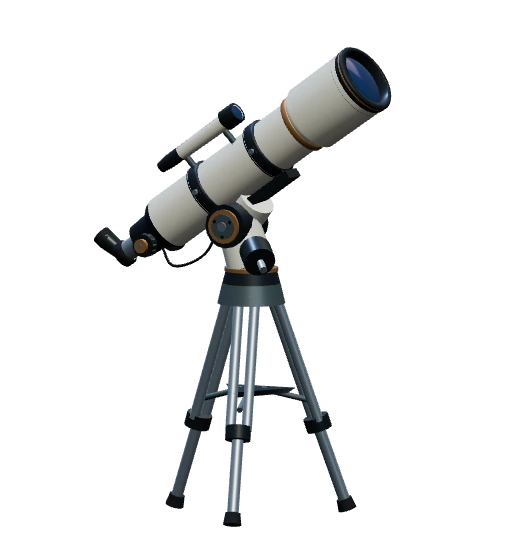
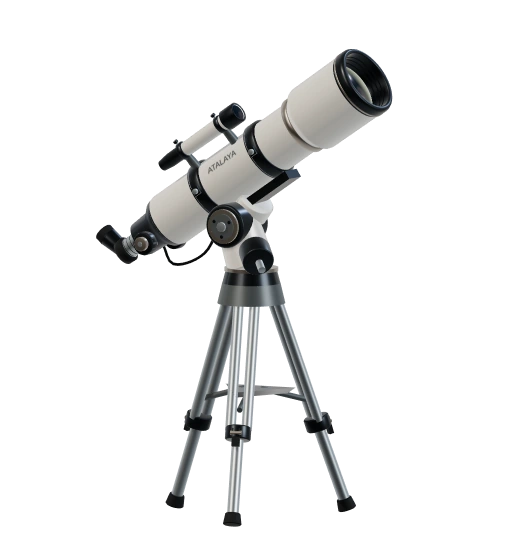
Afina el telescopio y oriéntalo hacia el puntero

Changed region(s): [[0.1765, 0.0889, 0.7647, 0.9778]]

diff --git a/js/telescope.js b/js/telescope.js
@@ -10,13 +10,15 @@ function finish(color, metalness, roughness) {
 function part(parent, geometry, material, x = 0, y = 0, z = 0) {
   const mesh = new THREE.Mesh(geometry, material);
   mesh.position.set(x, y, z);
+  mesh.castShadow = true;
+  mesh.receiveShadow = true;
   parent.add(mesh);
   return mesh;
 }
 
 // A turned profile along the optical axis. Each pair is [axial distance, radius].
 function turned(parent, material, profile, y = 0, z = 0) {
-  const geometry = new THREE.LatheGeometry(profile.map(([x, radius]) => new THREE.Vector2(radius, x)), 48);
+  const geometry = new THREE.LatheGeometry(profile.map(([x, radius]) => new THREE.Vector2(radius, x)), 96);
   geometry.rotateZ(-Math.PI / 2);
   return part(parent, geometry, material, 0, y, z);
 }
@@ -25,19 +27,52 @@ function strut(parent, material, from, to, radius, endRadius = radius) {
   const a = new THREE.Vector3(...from);
   const b = new THREE.Vector3(...to);
   const axis = b.clone().sub(a);
-  const mesh = part(parent, new THREE.CylinderGeometry(endRadius, radius, axis.length(), 16), material);
+  const half = axis.length() / 2;
+  const bevel = Math.min(radius * .10, endRadius * .10, half * .22);
+  const profile = [
+    [0, -half], [radius-bevel, -half], [radius, bevel-half],
+    [endRadius, half-bevel], [endRadius-bevel, half], [0, half]
+  ];
+  const mesh = part(parent, new THREE.LatheGeometry(profile.map(([r,h]) => new THREE.Vector2(r,h)), 36), material);
   mesh.position.lerpVectors(a, b, .5);
   mesh.quaternion.setFromUnitVectors(up, axis.normalize());
   return mesh;
 }
 
+// Silk-screened lettering follows the curved enamel between the tube rings.
+function addTubeMark(tube) {
+  const canvas = document.createElement("canvas");
+  canvas.width = 512;
+  canvas.height = 128;
+  const ctx = canvas.getContext("2d");
+  ctx.fillStyle = "#34444b";
+  ctx.font = "500 78px sans-serif";
+  ctx.textAlign = "center";
+  ctx.fillText("ATALAYA", 256, 91);
+  const map = new THREE.CanvasTexture(canvas);
+  map.colorSpace = THREE.SRGBColorSpace;
+  const material = new THREE.MeshStandardMaterial({
+    map, transparent: true, depthWrite: false, roughness: .46,
+    polygonOffset: true, polygonOffsetFactor: -1
+  });
+  const label = new THREE.LatheGeometry(
+    [new THREE.Vector2(.1394,-.151), new THREE.Vector2(.1394,.151)], 32, -.72, .54
+  );
+  const uv = label.attributes.uv;
+  for (let i = 0; i < uv.count; i++) uv.setXY(i, uv.getY(i), 1 - uv.getX(i));
+  label.rotateZ(-Math.PI / 2);
+  part(tube, label, material).castShadow = false;
+}
+
 function buildInstrument(scene) {
-  const enamel = finish(0xe0dfd1, .32, .26);
-  const graphite = finish(0x30393d, .58, .33);
+  const enamel = new THREE.MeshPhysicalMaterial({
+    color: 0xe3e4df, roughness: .34, metalness: .12, clearcoat: .64, clearcoatRoughness: .25
+  });
+  const graphite = finish(0x343b40, .72, .30);
   const rubber = finish(0x191e22, .08, .72);
-  const steel = finish(0xb7c6cf, .86, .25);
-  const brass = finish(0xc99560, .72, .28);
-  const mount = finish(0x657477, .62, .34);
+  const steel = finish(0xb5c0c6, .88, .34);
+  const titanium = finish(0xa8a39b, .9, .30);
+  const mount = finish(0x61696c, .44, .43);
 
   // Three legs converge under the head. The braces attach inside each leg.
   for (const angle of [14, 134, 254]) {
@@ -48,6 +83,9 @@ function buildInstrument(scene) {
       strut(leg, steel, [x, 1.13, .105], [x, .47, .34], .026);
     }
     strut(leg, graphite, [0, .49, .337], [0, .425, .359], .064);
+    const latch = part(leg, new THREE.BoxGeometry(.038,.09,.022), rubber, 0,.445,.405);
+    latch.rotation.x = -.29;
+    strut(leg, titanium, [-.029,.467,.402],[.029,.467,.402],.012);
     strut(leg, steel, [0, .445, .35], [0, .055, .494], .029);
     strut(leg, rubber, [0, .075, .486], [0, .02, .505], .038, .046);
     strut(leg, mount, [0, .64, .05], [0, .57, .312], .014);
@@ -55,14 +93,14 @@ function buildInstrument(scene) {
   part(scene, new THREE.CylinderGeometry(.22, .18, .028, 3), graphite, 0, .63);
   part(scene, new THREE.CylinderGeometry(.145, .169, .10, 36), mount, 0, 1.12);
   part(scene, new THREE.CylinderGeometry(.125, .145, .075, 36), graphite, 0, 1.205);
-  part(scene, new THREE.CylinderGeometry(.134, .134, .018, 36), brass, 0, 1.24);
+  part(scene, new THREE.CylinderGeometry(.134, .134, .018, 36), titanium, 0, 1.24);
 
   const azimuth = new THREE.Group();
   azimuth.position.y = 1.25;
   scene.add(azimuth);
   strut(azimuth, enamel, [0, 0, 0], [-.083, .233, 0], .12, .107);
   strut(azimuth, graphite, [-.08, .21, -.12], [-.08, .21, .128], .11);
-  strut(azimuth, brass, [-.08, .21, .129], [-.08, .21, .144], .086);
+  strut(azimuth, titanium, [-.08, .21, .129], [-.08, .21, .144], .086);
   strut(azimuth, mount, [-.08, .21, .144], [-.08, .21, .151], .064);
   strut(azimuth, steel, [-.08, .21, .151], [-.08, .21, .162], .024);
   for (const angle of [30, 150, 270]) {
@@ -83,7 +121,8 @@ function buildInstrument(scene) {
   altitude.add(tube);
 
   // Ivory optical tube, dovetail, padded rings and the machined dew shield.
-  turned(tube, enamel, [[-.53, .106], [-.50, .139], [.46, .139], [.48, .15]]);
+  turned(tube, enamel, [[-.53,.106],[-.524,.115],[-.51,.132],[-.49,.139],[.46,.139],[.48,.15]]);
+  addTubeMark(tube);
   for (const x of [-.19, .2]) {
     turned(tube, graphite, [[x-.035,.138],[x-.03,.153],[x+.027,.153],[x+.035,.139]]);
     part(tube, new THREE.BoxGeometry(.061,.052,.089), mount, x,-.149);
@@ -91,20 +130,28 @@ function buildInstrument(scene) {
     strut(tube, steel, [x,.005,.157], [x,.005,.178], .014);
     turned(tube, steel, [[x-.027,.151],[x-.023,.154],[x-.020,.151]]);
   }
-  turned(tube, brass, [[.427,.14],[.433,.153],[.46,.153],[.466,.146]]);
-  turned(tube, enamel, [[.46,.145],[.50,.173],[.84,.177],[.86,.17]]);
-  turned(tube, graphite, [[.83,.176],[.845,.181],[.873,.181],[.884,.172],[.884,.148],[.825,.146]]);
-  turned(tube, steel, [[.803,.175],[.807,.1775],[.810,.175]]);
-  turned(tube, brass, [[.855,.181],[.861,.182],[.867,.181]]);
+  turned(tube, titanium, [[.427,.14],[.433,.153],[.46,.153],[.466,.146]]);
+  turned(tube, enamel, [[.46,.145],[.472,.149],[.495,.17],[.51,.175],[.817,.178],[.836,.176]]);
+  turned(tube, graphite, [[.818,.176],[.827,.182],[.872,.182],[.885,.176],[.89,.17],[.89,.157],[.882,.152],[.792,.145],[.78,.142]]);
+  turned(tube, titanium, [[.829,.181],[.833,.183],[.84,.183],[.842,.181]]);
+  // Flocked baffles and a recessed retaining ring in front of the objective.
+  for (const x of [.806,.831,.853]) {
+    const r = .145 + (x-.79)*.09;
+    turned(tube, rubber, [[x,r+.003],[x,r-.003],[x-.005,r-.003],[x-.009,r+.001]]);
+  }
   const coating = new THREE.MeshPhysicalMaterial({
-    color: 0x225377, metalness: .54, roughness: .12,
-    clearcoat: 1, clearcoatRoughness: .08, iridescence: .58, iridescenceIOR: 1.38
+    color: 0x164352, metalness: .59, roughness: .115,
+    clearcoat: .67, clearcoatRoughness: .085, ior: 1.52,
+    iridescence: .76, iridescenceIOR: 1.34, iridescenceThicknessMinimum: 270, iridescenceThicknessMaximum: 365
   });
-  turned(tube, coating, [[.833,.147],[.847,.122],[.857,.081],[.862,.036],[.863,0]]);
+  turned(tube, coating, [[.78,.144],[.788,.128],[.795,.105],[.803,.071],[.808,.032],[.809,0]]);
 
   // Focuser, silver drawtube, right-angle eyepiece and dual-speed focus knobs.
   turned(tube, graphite, [[-.69,.066],[-.68,.088],[-.57,.096],[-.53,.128],[-.50,.137]]);
   turned(tube, steel, [[-.79,.05],[-.69,.05],[-.68,.061]]);
+  for (const x of [-.769,-.747,-.725,-.703]) {
+    turned(tube, graphite, [[x,.05],[x+.002,.0505],[x+.004,.05]]);
+  }
   turned(tube, rubber, [[-.83,.01],[-.82,.064],[-.78,.066],[-.77,.053]]);
   strut(tube, graphite, [-.811,.015,0],[-.849,.113,0],.039,.048);
   strut(tube, rubber, [-.846,.101,0],[-.859,.149,0],.048);
@@ -112,7 +159,7 @@ function buildInstrument(scene) {
   for (const side of [-1,1]) {
     strut(tube, graphite, [-.598,-.058,side*.12],[-.598,-.058,side*.17],.057);
   }
-  strut(tube, brass, [-.598,-.058,.17],[-.598,-.058,.196],.035);
+  strut(tube, titanium, [-.598,-.058,.17],[-.598,-.058,.196],.035);
   for (let i = 0; i < 12; i++) {
     const angle = i * Math.PI / 6;
     const x = -.598 + .053 * Math.cos(angle);
@@ -123,7 +170,10 @@ function buildInstrument(scene) {
 
   // A finder sits slightly toward the viewer so the two tubes read separately.
   for (const x of [-.17,.09]) {
-    strut(tube, mount, [x,.11,.065],[x,.219,.104],.016);
+    strut(tube, mount, [x,.11,.065],[x,.219,.104],.025,.018);
+    turned(tube, graphite, [[x-.015,.036],[x-.012,.046],[x+.012,.046],[x+.015,.036]],.222,.104);
+    strut(tube, steel, [x,.252,.119],[x,.275,.132],.006);
+    strut(tube, graphite, [x,.271,.129],[x,.282,.135],.012);
   }
   turned(tube, graphite, [[-.32,.027],[-.26,.035],[.15,.038],[.16,.045]],.222,.104);
   turned(tube, enamel, [[-.18,.036],[.115,.04],[.118,.039]],.222,.104);
@@ -135,47 +185,47 @@ function buildInstrument(scene) {
     new THREE.Vector3(-.39,-.25,.04), new THREE.Vector3(-.20,-.147,.025)
   ]);
   part(tube, new THREE.TubeGeometry(lead, 18, .007, 6, false), rubber);
-  return { azimuth, altitude };
+  return { azimuth, altitude, tubeHeight: tube.position.y };
 }
 
-// Reflection cards give the steel and coated lens distinct highlights at icon size.
-function makeSkyReflection() {
-  const canvas = document.createElement("canvas");
-  canvas.width = 256;
-  canvas.height = 128;
-  const ctx = canvas.getContext("2d");
-  const sky = ctx.createLinearGradient(0, 0, 0, 128);
-  for (const [at, color] of [[0,"#73879d"],[.43,"#526170"],[.55,"#212e36"],[1,"#393227"]]) {
-    sky.addColorStop(at, color);
-  }
-  ctx.fillStyle = sky;
-  ctx.fillRect(0, 0, 256, 128);
-  ctx.fillStyle = "#f7eee0";
-  ctx.fillRect(34, 25, 49, 18);
-  ctx.fillStyle = "#c3dafa";
-  ctx.fillRect(145, 17, 15, 49);
-  const texture = new THREE.CanvasTexture(canvas);
+// Studio Small 09, photographed by Sergej Majboroda (CC0, polyhaven.com/a/studio_small_09).
+// The local panorama stores linear radiance at 1/20 exposure to retain the softbox highlights.
+async function studioEnvironment() {
+  const image = new Image();
+  image.src = new URL("../images/atalaya-studio-light.webp", import.meta.url).href;
+  await image.decode();
+  const texture = new THREE.CanvasTexture(image);
   texture.mapping = THREE.EquirectangularReflectionMapping;
   texture.colorSpace = THREE.SRGBColorSpace;
   return texture;
 }
 
-export function createTelescope(host) {
+export async function createTelescope(host) {
+  const environment = await studioEnvironment();
   const renderer = new THREE.WebGLRenderer({ alpha: true, antialias: true, powerPreference: "low-power" });
   renderer.setClearColor(0, 0);
-  renderer.setPixelRatio(Math.min(window.devicePixelRatio, 2));
   renderer.toneMapping = THREE.ACESFilmicToneMapping;
+  renderer.shadowMap.enabled = true;
   const scene = new THREE.Scene();
-  scene.environment = makeSkyReflection();
-  scene.add(new THREE.HemisphereLight(0xd9eaff, 0x897366, 1.05));
-  const key = new THREE.DirectionalLight(0xfff1db, 2.5);
-  key.position.set(2, 4, 3);
-  scene.add(key);
-  const rim = new THREE.DirectionalLight(0xa7c9ff, 2.1);
-  rim.position.set(-2, 3, -1);
+  scene.environment = environment;
+  scene.environmentIntensity = 13;
+  scene.environmentRotation.y = radians(32);
+  scene.add(new THREE.HemisphereLight(0xe0ecff, 0x92918a, .24));
+  const key = new THREE.DirectionalLight(0xfff2df, 1.55);
+  key.position.set(-2.5, 5, 3);
+  key.target.position.y = 1.15;
+  key.castShadow = true;
+  key.shadow.mapSize.set(512, 512);
+  Object.assign(key.shadow.camera, { left: -1.65, right: 1.65, top: 1.65, bottom: -1.65, near: .5, far: 10 });
+  key.shadow.camera.updateProjectionMatrix();
+  key.shadow.normalBias = .005;
+  key.shadow.bias = -.0002;
+  scene.add(key, key.target);
+  const rim = new THREE.DirectionalLight(0xbddaff, .7);
+  rim.position.set(1, 2, -3);
   scene.add(rim);
 
-  const { azimuth, altitude } = buildInstrument(scene);
+  const { azimuth, altitude, tubeHeight } = buildInstrument(scene);
   const camera = new THREE.OrthographicCamera(-1, 1, 1.34, -1.34, .1, 20);
   camera.position.set(2.8, 2.03, 6);
   camera.lookAt(.02, 1.235, 0);
@@ -186,40 +236,62 @@ export function createTelescope(host) {
   let running = false;
   let frame = 0;
   let lastDraw = 0;
-  let elapsed = 0;
-  let aimX = 0;
-  let aimY = 0;
-  let touchedUntil = 0;
+  let targetYaw = azimuth.rotation.y;
+  let targetPitch = altitude.rotation.z;
+  let pointer = null;
+  const target = new THREE.Vector3();
+  const pivot = new THREE.Vector3();
+  const towardCamera = new THREE.Vector3();
   const canvas = renderer.domElement;
   host.append(canvas);
 
-  function point(event) {
-    const dx = event.clientX - (bounds.left + bounds.width / 2);
-    const dy = event.clientY - (bounds.top + bounds.height / 2);
-    const reach = Math.max(110, bounds.width * 1.65);
-    const influence = Math.max(0, 1 - Math.hypot(dx, dy) / reach);
-    aimX = THREE.MathUtils.clamp(dx / (bounds.width * .42), -1, 1) * influence;
-    aimY = THREE.MathUtils.clamp(-dy / (bounds.height * .42), -1, 1) * influence;
-    touchedUntil = event.pointerType === "touch" ? performance.now() + 1700 : 0;
+  function aim() {
+    // Place a point on the cursor's orthographic ray, in front of the mount.
+    azimuth.getWorldPosition(pivot);
+    target.copy(pivot).project(camera);
+    target.x = 2 * (pointer.x - bounds.left) / bounds.width - 1;
+    target.y = 1 - 2 * (pointer.y - bounds.top) / bounds.height;
+    target.unproject(camera).sub(pivot);
+    camera.getWorldDirection(towardCamera).negate();
+    target.addScaledVector(towardCamera, 2.2 + target.length() * .32);
+
+    // Solve both mount axes, including the height of the optical axis above its saddle.
+    const horizontal = Math.hypot(target.x, target.z);
+    const axle = altitude.position;
+    targetYaw = Math.atan2(-target.z, target.x) + Math.asin(THREE.MathUtils.clamp(axle.z / horizontal, -1, 1));
+    const forward = Math.sqrt(Math.max(0, horizontal * horizontal - axle.z * axle.z)) - axle.x;
+    const height = target.y - axle.y;
+    targetPitch = Math.atan2(height, forward) - Math.asin(THREE.MathUtils.clamp(tubeHeight / Math.hypot(forward, height), -1, 1));
   }
 
-  function release() {
-    aimX = aimY = touchedUntil = 0;
+  function requestDraw() {
+    if (!frame) frame = requestAnimationFrame(draw);
+  }
+
+  function point(event) {
+    if (!event.isPrimary) return;
+    pointer = { x: event.clientX, y: event.clientY };
+    aim();
+    requestDraw();
   }
 
   function draw(now) {
+    frame = 0;
     if (!running) return;
-    frame = requestAnimationFrame(draw);
-    const delta = (now - lastDraw) / 1000;
-    if (delta < 1 / 30) return;
-    const dt = Math.min(delta, .1);
-    elapsed += dt;
+    const dt = Math.min((now - lastDraw) / 1000, .05);
     lastDraw = now;
-    if (touchedUntil && now > touchedUntil) release();
-    const yaw = -6 + 12 * Math.sin(elapsed * .28) + 27 * aimX;
-    const pitch = 34 + 5 * Math.sin(elapsed * .41) + 17 * aimY;
-    azimuth.rotation.y = THREE.MathUtils.damp(azimuth.rotation.y, radians(yaw), 4, dt);
-    altitude.rotation.z = THREE.MathUtils.damp(altitude.rotation.z, radians(pitch), 4, dt);
+    const yawError = targetYaw - azimuth.rotation.y;
+    const shortestYaw = Math.atan2(Math.sin(yawError), Math.cos(yawError));
+    const pitchError = targetPitch - altitude.rotation.z;
+    if (Math.max(Math.abs(shortestYaw), Math.abs(pitchError)) > .0002) {
+      const blend = 1 - Math.exp(-11 * dt);
+      azimuth.rotation.y += shortestYaw * blend;
+      altitude.rotation.z += pitchError * blend;
+      requestDraw();
+    } else {
+      azimuth.rotation.y = targetYaw;
+      altitude.rotation.z = targetPitch;
+    }
     renderer.render(scene, camera);
     host.classList.add("is-rendered");
   }
@@ -227,26 +299,30 @@ export function createTelescope(host) {
   function start() {
     if (renderer.getContext().isContextLost()) return;
     bounds = host.getBoundingClientRect();
+    // Supersample this small canvas even on 1× displays to smooth the thin metal edges.
+    renderer.setPixelRatio(Math.min(3, Math.max(2, window.devicePixelRatio * 1.5)));
     renderer.setSize(bounds.width, bounds.height, false);
     camera.right = camera.top * bounds.width / bounds.height;
     camera.left = -camera.right;
     camera.updateProjectionMatrix();
-    if (running) return;
-    running = true;
-    window.addEventListener("pointermove", point, { passive: true });
-    window.addEventListener("pointerdown", point, { passive: true });
-    document.documentElement.addEventListener("pointerleave", release);
-    lastDraw = performance.now() - 100;
-    draw(performance.now());
+    camera.updateMatrixWorld();
+    if (pointer) aim();
+    if (!running) {
+      running = true;
+      window.addEventListener("pointermove", point, { passive: true, capture: true });
+      window.addEventListener("pointerdown", point, { passive: true, capture: true });
+      window.addEventListener("resize", start);
+    }
+    requestDraw();
   }
 
   function stop() {
     running = false;
     cancelAnimationFrame(frame);
-    window.removeEventListener("pointermove", point);
-    window.removeEventListener("pointerdown", point);
-    document.documentElement.removeEventListener("pointerleave", release);
-    release();
+    frame = 0;
+    window.removeEventListener("pointermove", point, true);
+    window.removeEventListener("pointerdown", point, true);
+    window.removeEventListener("resize", start);
     host.classList.remove("is-rendered");
   }
 
